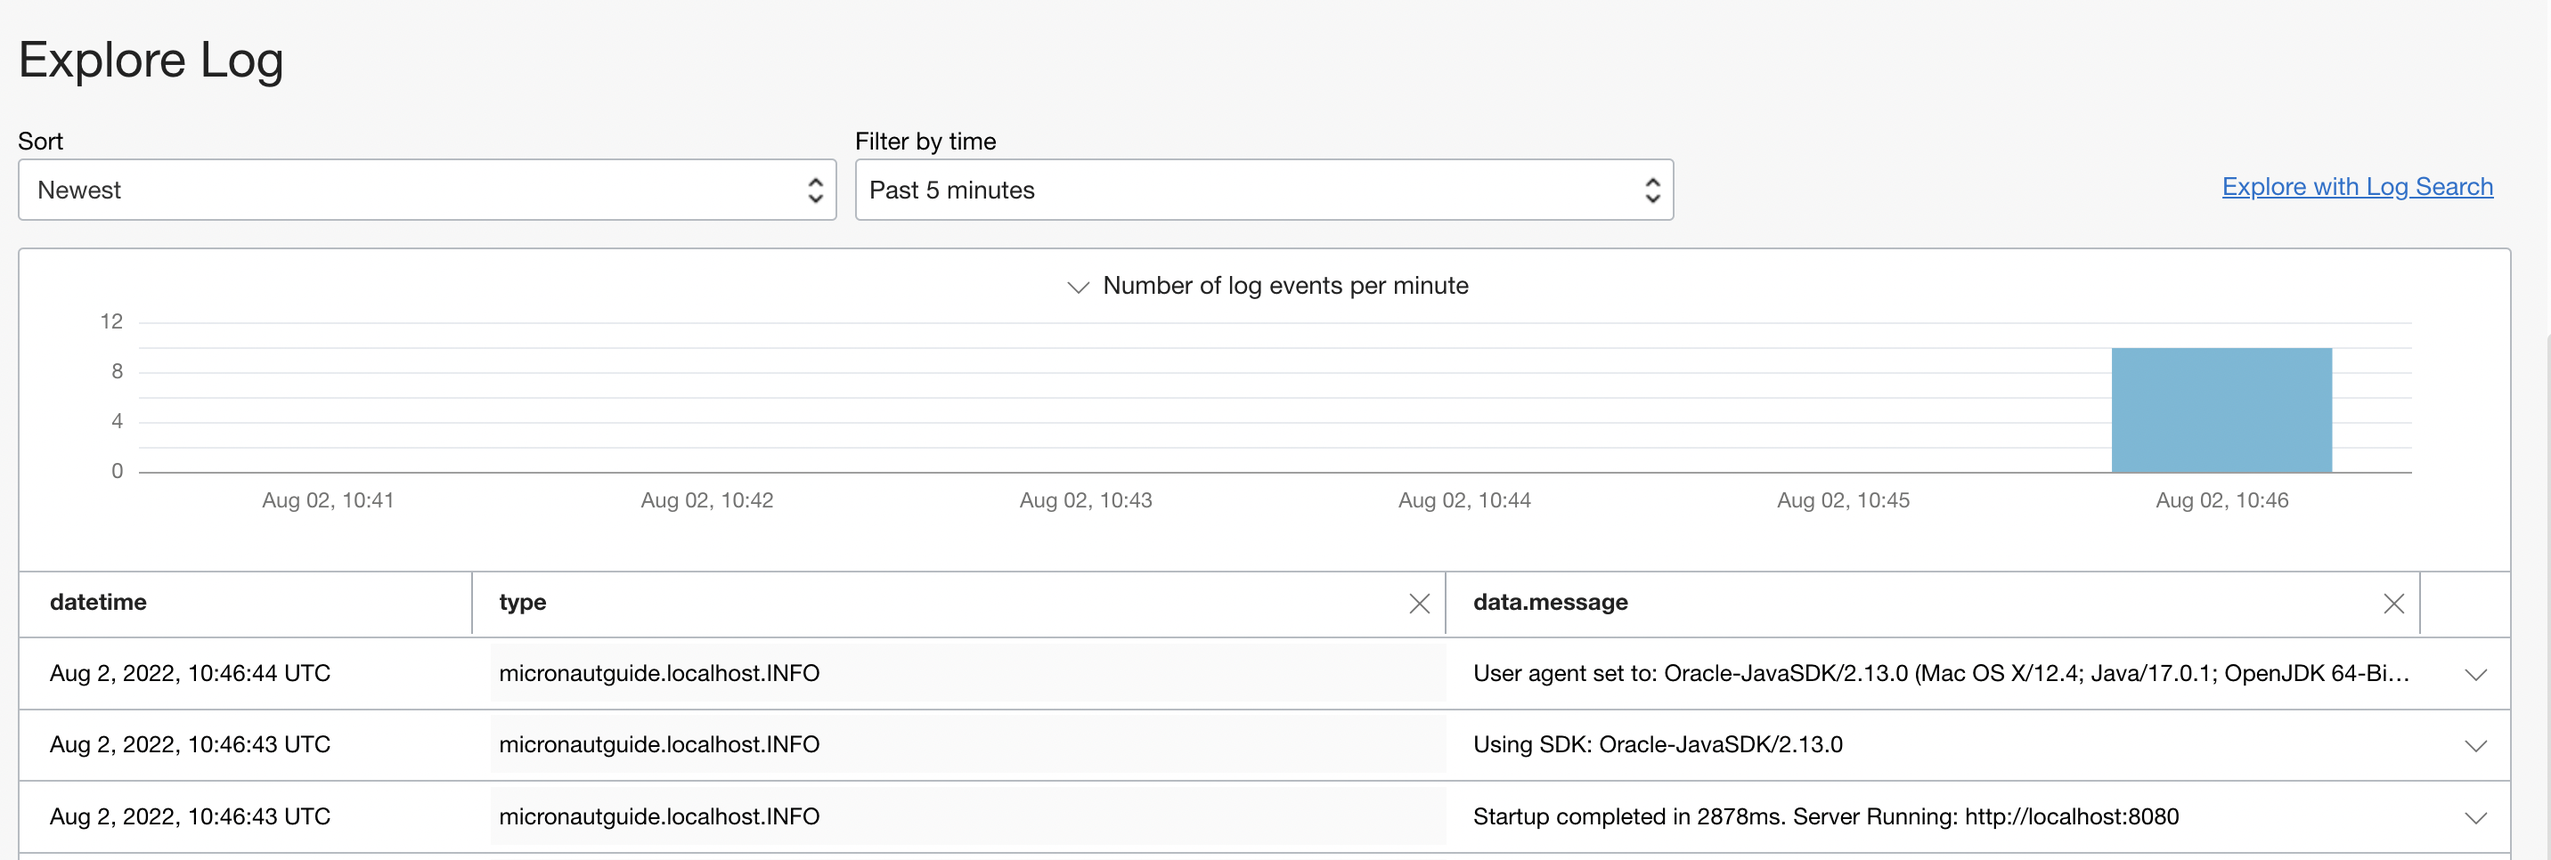
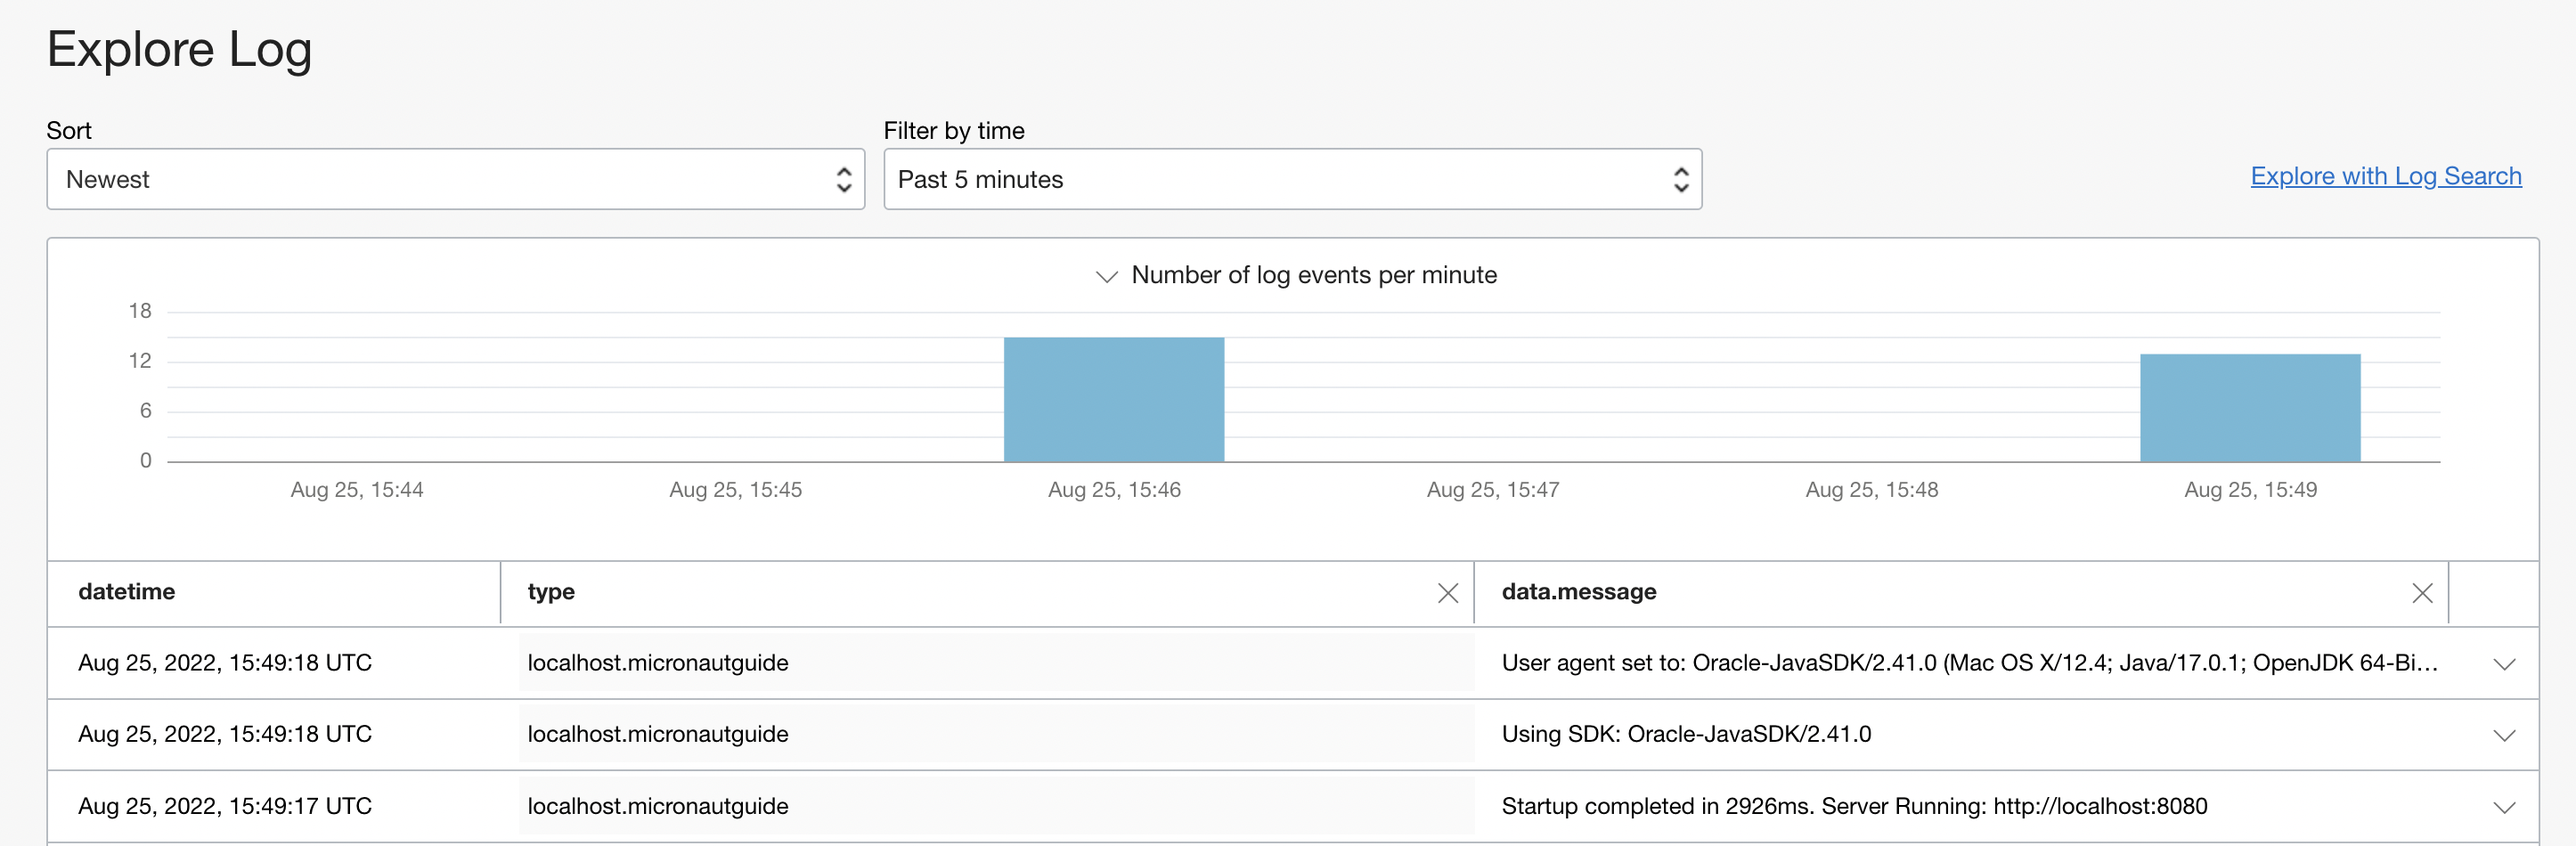
send logs into batches

diff --git a/oraclecloud-logging/src/main/java/io/micronaut/oraclecloud/logging/OracleCloudAppender.java b/oraclecloud-logging/src/main/java/io/micronaut/oraclecloud/logging/OracleCloudAppender.java
@@ -50,6 +50,7 @@ public final class OracleCloudAppender extends AppenderBase<ILoggingEvent> imple
 
     private static final int DEFAULT_QUEUE_SIZE = 128;
     private static final int DEFAULT_EVENT_DELAY_TIMEOUT = 100;
+    private static final int DEFAULT_MAX_BATCH_SIZE = 128;
     private static final String SPEC_VERSION = "1.0";
     private static final long DEFAULT_PUBLISH_PERIOD = 100;
     private final QueueFactory queueFactory = new QueueFactory();
@@ -59,12 +60,13 @@ public final class OracleCloudAppender extends AppenderBase<ILoggingEvent> imple
     private Future<?> task;
     private BlockingDeque<ILoggingEvent> deque;
     private String logId;
-    private String host;
-    private String appName;
+    private String source;
+    private String subject;
+    private String type;
     private int queueSize = DEFAULT_QUEUE_SIZE;
     private long publishPeriod = DEFAULT_PUBLISH_PERIOD;
+    private int maxBatchSize = DEFAULT_MAX_BATCH_SIZE;
     private Appender<ILoggingEvent> emergencyAppender;
-
     private boolean configuredSuccessfully = false;
 
     public int getQueueSize() {
@@ -95,6 +97,38 @@ public final class OracleCloudAppender extends AppenderBase<ILoggingEvent> imple
         this.logId = logId;
     }
 
+    public String getSource() {
+        return source;
+    }
+
+    public void setSource(String source) {
+        this.source = source;
+    }
+
+    public String getSubject() {
+        return subject;
+    }
+
+    public void setSubject(String subject) {
+        this.subject = subject;
+    }
+
+    public int getMaxBatchSize() {
+        return maxBatchSize;
+    }
+
+    public void setMaxBatchSize(int maxBatchSize) {
+        this.maxBatchSize = maxBatchSize;
+    }
+
+    public String getType() {
+        return type;
+    }
+
+    public void setType(String type) {
+        this.type = type;
+    }
+
     @Override
     public void start() {
         if (isStarted()) {
@@ -117,6 +151,11 @@ public final class OracleCloudAppender extends AppenderBase<ILoggingEvent> imple
 
         if (encoder == null) {
             addError("No encoder set for the appender named [" + name + "].");
+            return;
+        }
+
+        if (maxBatchSize <= 0) {
+            addError("Max Batch size must be greater than zero");
             return;
         }
 
@@ -181,12 +220,25 @@ public final class OracleCloudAppender extends AppenderBase<ILoggingEvent> imple
 
     private boolean tryToConfigure() {
 
-        if (OracleCloudLoggingClient.getLogging() == null) {
+        if (!OracleCloudLoggingClient.isReady()) {
             return false;
         }
 
-        host = OracleCloudLoggingClient.getHost();
-        appName = OracleCloudLoggingClient.getAppName();
+        String host = OracleCloudLoggingClient.getHost();
+        String appName = OracleCloudLoggingClient.getAppName();
+
+        if (type == null) {
+            type = String.format("%s.%s", host, appName);
+        }
+
+        if (source == null) {
+            source = host;
+        }
+
+        if (subject == null) {
+            subject = appName;
+        }
+
         configuredSuccessfully = true;
 
         return true;
@@ -196,40 +248,49 @@ public final class OracleCloudAppender extends AppenderBase<ILoggingEvent> imple
         if (!configuredSuccessfully && !tryToConfigure()) {
             return;
         }
-        while (!deque.isEmpty()) {
-            ILoggingEvent event = deque.takeFirst();
-            PutLogsDetails putLogsDetails = PutLogsDetails.builder()
-                    .logEntryBatches(Collections.singletonList(LogEntryBatch.builder()
-                            .source(host)
-                            .subject(event.getLoggerName())
-                            .type(String.format("%s.%s.%s", appName, host, event.getLevel()))
-                            .defaultlogentrytime(new Date())
-                            .entries(Collections.singletonList(LogEntry.builder()
-                                    .id(UUID.randomUUID().toString())
-                                    .data(new String(encoder.encode(event), StandardCharsets.UTF_8)).build()))
-                            .build())
-                    )
-                    .specversion(SPEC_VERSION)
-                    .build();
-            PutLogsRequest putLogsRequest = PutLogsRequest.builder()
-                    .putLogsDetails(putLogsDetails)
-                    .logId(logId)
-                    .build();
-            try {
-                if (!OracleCloudLoggingClient.putLogs(putLogsRequest)) {
-                    addError("Sending log request failed");
-                    if (emergencyAppender != null) {
-                        emergencyAppender.doAppend(event);
-                    }
-                }
-            } catch (Exception e) {
-                addError("Sending log request failed", e);
-                if (emergencyAppender != null) {
-                    emergencyAppender.doAppend(event);
-                }
-            }
 
+        List<LogEntry> logEntries = new ArrayList<>(maxBatchSize);
+        List<ILoggingEvent> iLoggingEvents = new ArrayList<>(maxBatchSize);
+
+        while (!deque.isEmpty() && logEntries.size() < maxBatchSize) {
+            ILoggingEvent event = deque.takeFirst();
+            final LogEntry inputLogEvent = LogEntry.builder().id(UUID.randomUUID().toString())
+                    .data(new String(encoder.encode(event), StandardCharsets.UTF_8)).build();
+
+            iLoggingEvents.add(event);
+            logEntries.add(inputLogEvent);
         }
+        if (!logEntries.isEmpty() && !sendLogsToOracleCloud(logEntries) && emergencyAppender != null) {
+            iLoggingEvents.forEach(emergencyAppender::doAppend);
+        }
+    }
+
+    private boolean sendLogsToOracleCloud(List<LogEntry> logEntries) {
+        PutLogsDetails putLogsDetails = PutLogsDetails.builder()
+                .logEntryBatches(Collections.singletonList(LogEntryBatch.builder()
+                        .source(source)
+                        .subject(subject)
+                        .type(type)
+                        .defaultlogentrytime(new Date())
+                        .entries(logEntries)
+                        .build())
+                )
+                .specversion(SPEC_VERSION)
+                .build();
+        PutLogsRequest putLogsRequest = PutLogsRequest.builder()
+                .putLogsDetails(putLogsDetails)
+                .logId(logId)
+                .build();
+        try {
+            if (!OracleCloudLoggingClient.putLogs(putLogsRequest)) {
+                addError("Sending log request failed");
+            } else {
+                return true;
+            }
+        } catch (Exception e) {
+            addError("Sending log request failed", e);
+        }
+        return false;
     }
 
     @Override

diff --git a/oraclecloud-logging/src/main/java/io/micronaut/oraclecloud/logging/OracleCloudLoggingClient.java b/oraclecloud-logging/src/main/java/io/micronaut/oraclecloud/logging/OracleCloudLoggingClient.java
@@ -49,8 +49,8 @@ final class OracleCloudLoggingClient implements ApplicationEventListener<Service
         this.internalAppName = applicationConfiguration.getName().orElse("");
     }
 
-    static synchronized Logging getLogging() {
-        return logging;
+    static synchronized boolean isReady() {
+        return logging != null;
     }
 
     static synchronized String getHost() {
@@ -70,6 +70,8 @@ final class OracleCloudLoggingClient implements ApplicationEventListener<Service
     static synchronized void destroy() throws Exception {
         OracleCloudLoggingClient.logging.close();
         OracleCloudLoggingClient.logging = null;
+        OracleCloudLoggingClient.host = null;
+        OracleCloudLoggingClient.appName = null;
     }
 
     static synchronized boolean putLogs(PutLogsRequest putLogsRequest) {
